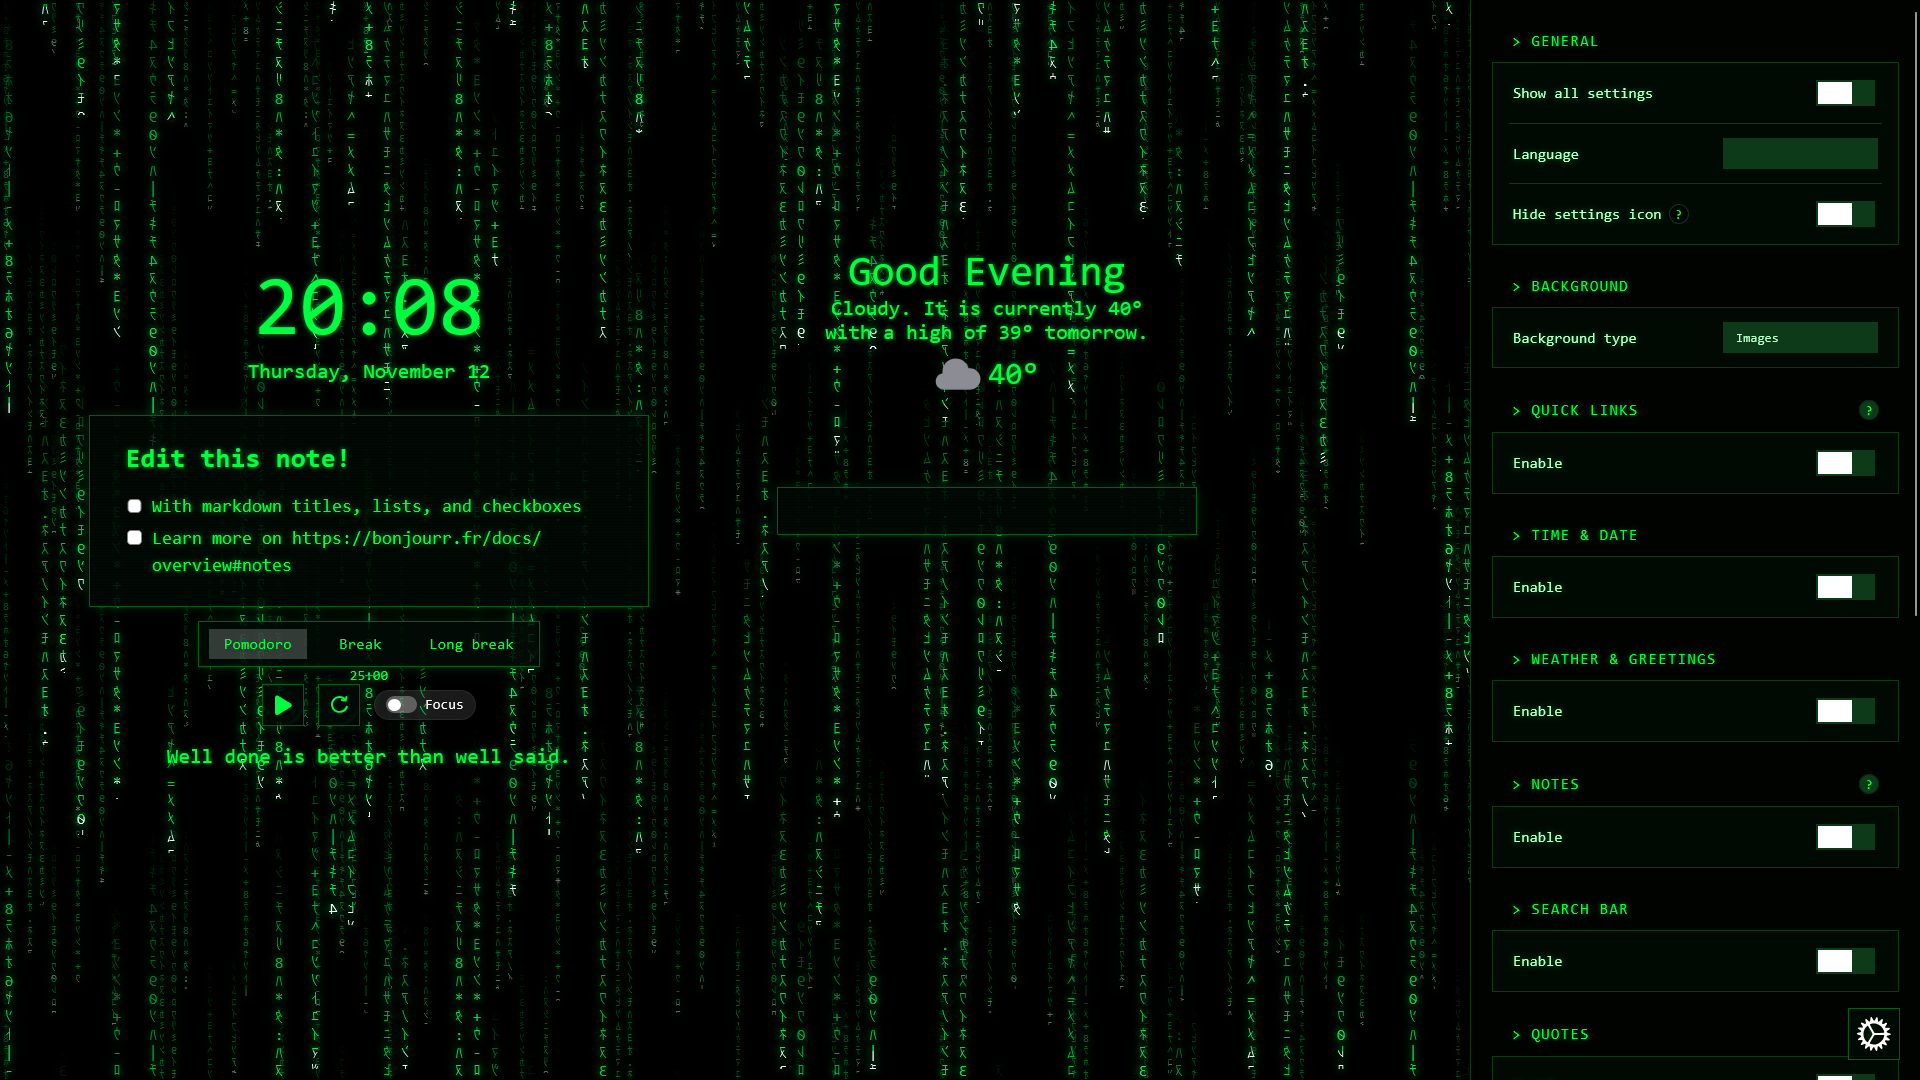
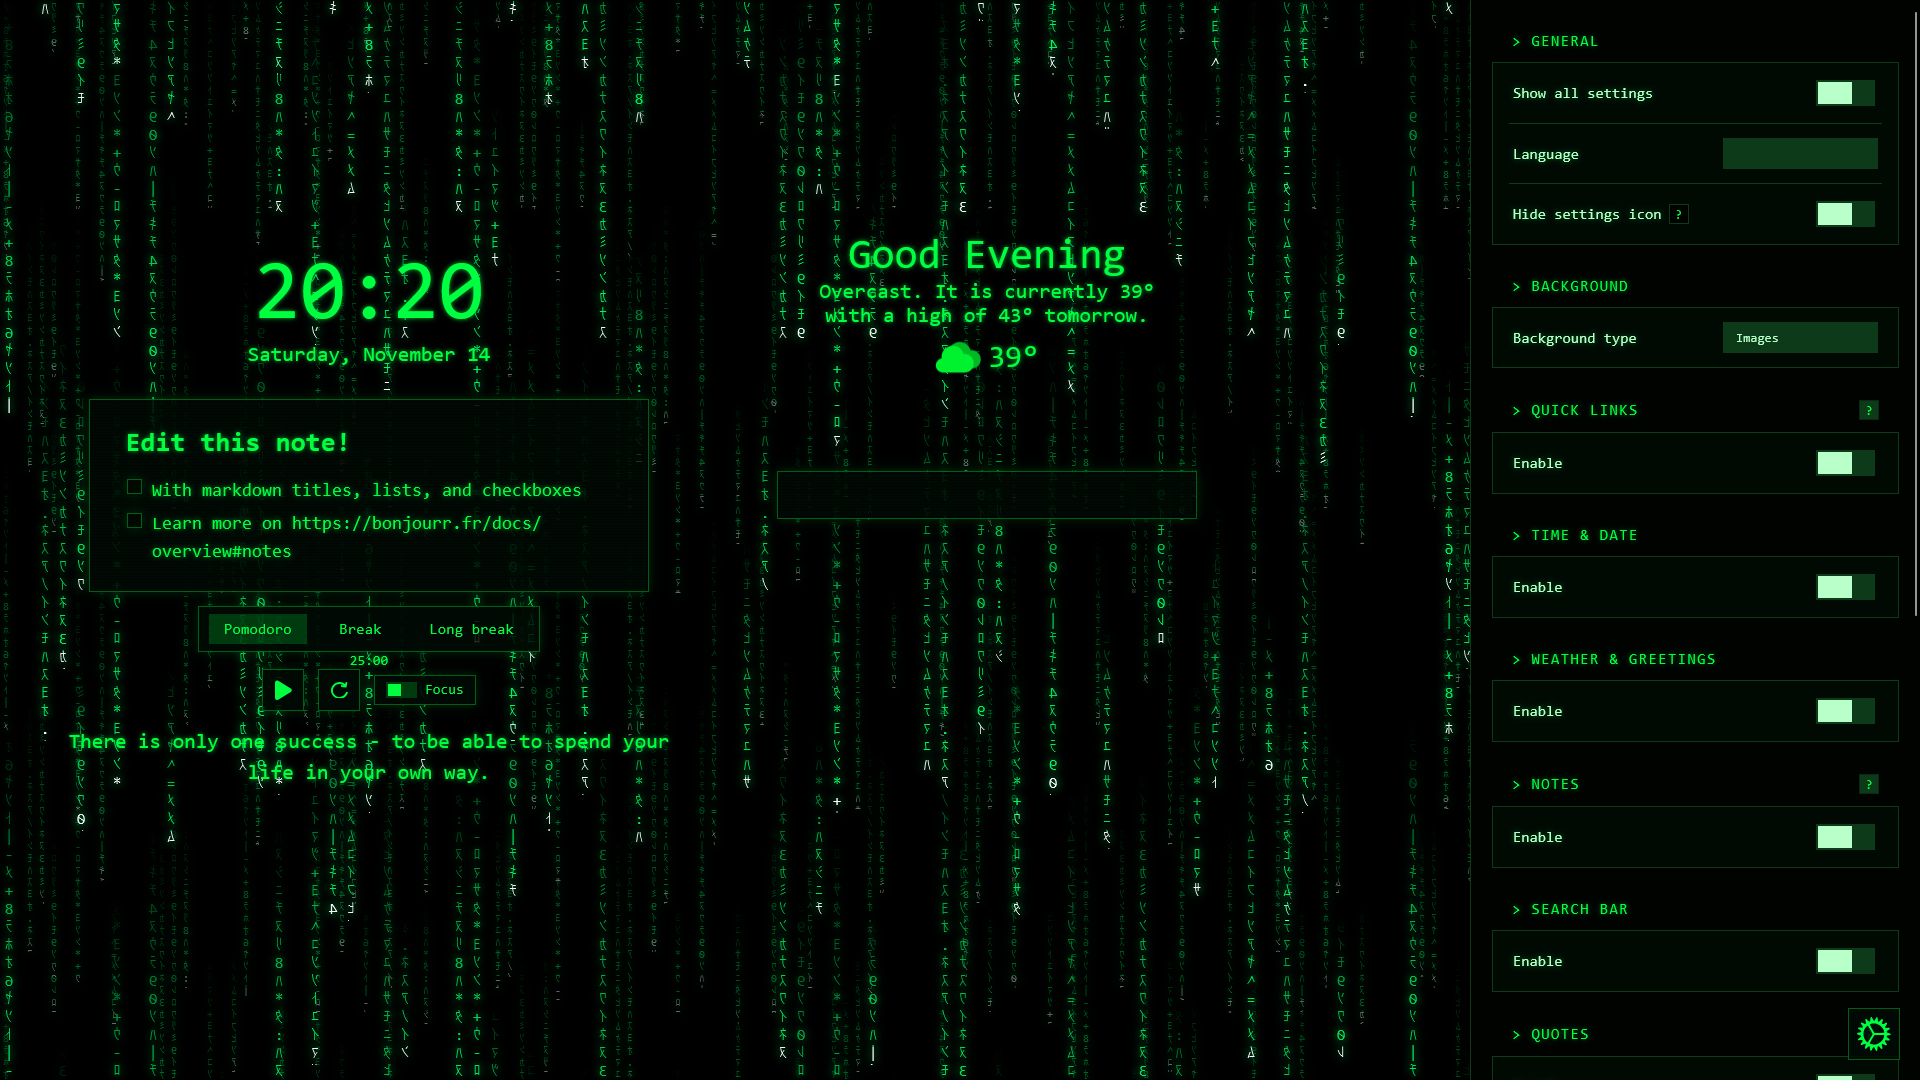
Style remaining default controls in the UI snippets

diff --git a/css/matrix-ui-widgets.css b/css/matrix-ui-widgets.css
@@ -1,7 +1,11 @@
-/* Matrix UI: search bar, notes, Pomodoro and quick-link tiles as green phosphor terminal panels. */
-#interface { --mx-ui: 0 255 65; /* accent colour, as "R G B" */ }
-#searchbar-wrapper, #sb-suggestions, #pocket-editor, #pomodoro_container .glass, #linkblocks .link-icon {
-	color: rgb(var(--mx-ui));
+/* Matrix UI: search bar, notes, Pomodoro and quick-link tiles. */
+#interface {
+	--mx-ui: 0 255 65; /* accent colour, as "R G B" */
+	--mx-c: rgb(var(--mx-ui));
+	--font-on-blur-color: var(--mx-ui);
+}
+#searchbar-wrapper, #sb-suggestions, #pocket-editor, #pocket-editor [type=checkbox], #pomodoro_container .glass, #interface #focus-toggle, #linkblocks .link-icon, #linkblocks .in-folder .link-list {
+	color: var(--mx-c);
 	background: rgb(0 10 3 / 0.85);
 	border: 1px solid rgb(var(--mx-ui) / 0.35);
 	border-radius: 0;
@@ -9,16 +13,20 @@
 	-webkit-backdrop-filter: none;
 	backdrop-filter: none;
 }
-#searchbar-wrapper, #pocket-editor, #pmdr_modes { background-image: repeating-linear-gradient(rgb(0 0 0 / 0) 0 2px, rgb(0 0 0 / 0.3) 2px 3px); }
+#searchbar-wrapper, #pocket-editor, #pmdr_modes { background-image: repeating-linear-gradient(#0000 0 2px, #0000004d 2px 3px); }
 #searchbar, #sb-suggestions, #pocket-editor, #pomodoro_container {
-	color: rgb(var(--mx-ui));
+	color: var(--mx-c);
 	font-family: Consolas, Monaco, "Ubuntu Mono", monospace;
-	caret-color: rgb(var(--mx-ui));
+	caret-color: var(--mx-c);
 	text-shadow: 0 0 6px rgb(var(--mx-ui) / 0.6);
 }
 #searchbar::placeholder { color: rgb(var(--mx-ui) / 0.5); }
-#searchbar-wrapper:focus-within, #pocket-editor:focus-within { border-color: rgb(var(--mx-ui)); }
-#pocket-editor input, #focus-toggle input { accent-color: rgb(var(--mx-ui)); }
-#pmdr_modes .glider, #pmdr_modes .pomodoro_mode, #pmdr_modes .pomodoro_mode.active { border-radius: 0; box-shadow: none; -webkit-backdrop-filter: none; backdrop-filter: none; }
-#pmdr_modes .glider, #pmdr_modes .pomodoro_mode.active { background: rgb(var(--mx-ui) / 0.2); }
+#searchbar-wrapper:focus-within, #pocket-editor:focus-within { border-color: var(--mx-c); }
+#pocket-editor [type=checkbox] { appearance: none; }
+#pocket-editor :checked { background: var(--mx-c); box-shadow: inset 0 0 0 3px #000a03; }
+#interface .glass::after, #focus-toggle::after { display: none; }
+#interface :is(#pmdr_modes, #focus-toggle) *, #focus-toggle .slider::after { border-radius: 0; box-shadow: none; }
+#interface :is(#pmdr_modes .glider, #pmdr_modes .active, #focus-toggle .slider) { background: rgb(var(--mx-ui) / 0.2); }
+#interface #focus-toggle :checked + .slider { background: rgb(var(--mx-ui) / 0.5); }
+#focus-toggle .slider::after { background: var(--mx-c); }
 #linkblocks .link-icon img { border-radius: 0; }

diff --git a/css/matrix-ui-settings.css b/css/matrix-ui-settings.css
@@ -19,11 +19,13 @@ aside {
 }
 aside, aside input, aside select, aside button, aside textarea { font-family: Consolas, Monaco, "Ubuntu Mono", monospace; }
 aside .param { border: 1px solid #0d3b1a; }
-aside .param, aside select, aside button, aside textarea, aside input:not(.switch):not([type="range"]) { border-radius: 0; }
+#settings#settings *, aside .switch::after { border-radius: 0; }
 aside .settings-title h2 { text-transform: uppercase; letter-spacing: 0.1em; }
 aside .settings-title h2::before { content: "> "; }
 aside::-webkit-scrollbar-thumb { background-color: #0d3b1a; border-radius: 0; }
 aside { background-image: repeating-linear-gradient(rgb(0 0 0 / 0) 0 2px, rgb(0 0 0 / 0.25) 2px 3px); text-shadow: 0 0 6px rgb(var(--mx-ui) / 0.45); }
 aside input, aside textarea { caret-color: rgb(var(--mx-ui)); }
-aside .switch, aside .switch::before, aside .switch::after { border-radius: 0; }
 aside .switch:not(:checked) { background-color: #0d3b1a; }
+aside .switch::after { background: #b8ffc9; }
+aside .range::-webkit-slider-thumb { background: rgb(var(--mx-ui)); border-radius: 0; }
+aside .range::-moz-range-thumb { background: rgb(var(--mx-ui)); border-radius: 0; }

diff --git a/css/matrix-ui-menus.css b/css/matrix-ui-menus.css
@@ -8,10 +8,11 @@ dialog, #show-settings {
 	--color-dialog-input-text: #b8ffc9;
 	--color-dialog-input-bg: #0d3b1a;
 	--accent-color: var(--mx-ui);
+	--icon-color: rgb(var(--mx-ui));
 }
 dialog, dialog input, dialog select, dialog button { font-family: Consolas, Monaco, "Ubuntu Mono", monospace; border-radius: 0; }
 dialog { color: rgb(var(--mx-ui)); box-shadow: 0 0 16px rgb(var(--mx-ui) / 0.2); -webkit-backdrop-filter: none; backdrop-filter: none; }
-#show-settings button, #show-settings.shown button {
+#show-settings#show-settings button {
 	color: rgb(var(--mx-ui));
 	background: rgb(0 10 3 / 0.85);
 	border: 1px solid rgb(var(--mx-ui) / 0.35);

diff --git a/css/matrix-ui-text.css b/css/matrix-ui-text.css
@@ -9,3 +9,4 @@
 	font-family: var(--font-family);
 	text-shadow: var(--text-shadow-interface);
 }
+#interface .weather-icon { filter: grayscale(1) sepia(1) hue-rotate(80deg) saturate(5); }

diff --git a/README.md b/README.md
@@ -92,10 +92,10 @@ The colour is `--mx-ui`, written as `R G B`.
 
 | Snippet | Styles |
 |---|---|
-| [`matrix-ui-text.css`](css/matrix-ui-text.css) | clock, greeting, weather, quotes |
-| [`matrix-ui-widgets.css`](css/matrix-ui-widgets.css) | search bar, notes, Pomodoro, quick-link tiles |
-| [`matrix-ui-settings.css`](css/matrix-ui-settings.css) | settings panel |
-| [`matrix-ui-menus.css`](css/matrix-ui-menus.css) | context menu, layout dialog, settings button |
+| [`matrix-ui-text.css`](css/matrix-ui-text.css) | clock, greeting, weather and its icon, quotes |
+| [`matrix-ui-widgets.css`](css/matrix-ui-widgets.css) | search bar, notes and their checkboxes, Pomodoro and its Focus switch, quick-link tiles and folders |
+| [`matrix-ui-settings.css`](css/matrix-ui-settings.css) | settings panel, its switches and sliders |
+| [`matrix-ui-menus.css`](css/matrix-ui-menus.css) | context menu, layout dialog, settings button and its gear |
 
 ## Size limits
 
@@ -105,7 +105,8 @@ snippet:
 
 | Rain snippet | Room for one of |
 |---|---|
-| Katakana, Binary, CRT, Hex, Upward, Operator | widgets, settings, or text + menus |
+| Binary, Hex, Operator | widgets, settings, or text + menus |
+| Katakana, CRT, Upward | settings, or text + menus |
 | Spectrum, Tilt | text or menus |
 | Depth, Glitch, Neon | text |
 
@@ -117,7 +118,8 @@ All four UI snippets together fit when no rain snippet is used.
 - A rain snippet replaces the regular background while enabled.
 - Katakana comes from system fonts; without Japanese fonts use Binary, CRT or Hex.
 - The glow (`filter: drop-shadow`) is the expensive part; remove that line on slow machines.
-- Site icons, the weather icon and the settings gear keep their own colours.
+- Site icons and the analog clock keep their own colours.
+- The weather icon is tinted by a fixed green filter in `matrix-ui-text.css`; it does not follow `--mx-ui`.
 - Spectrum tints white rain with a blended overlay, so `--mx-color` must stay white.
 - Operator is dense; the default clock and greeting are harder to read over it.
 
